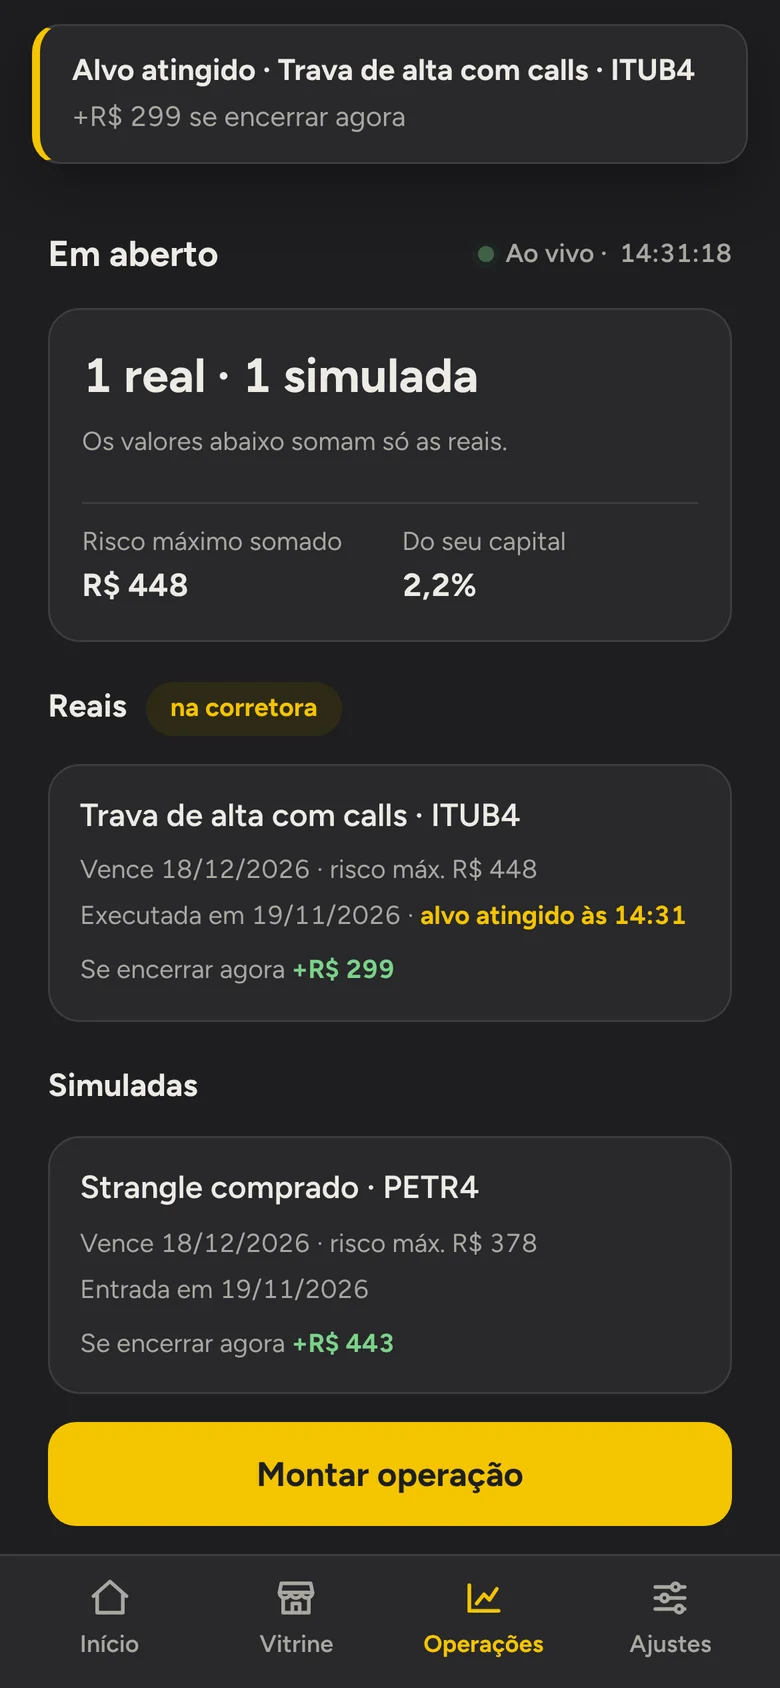
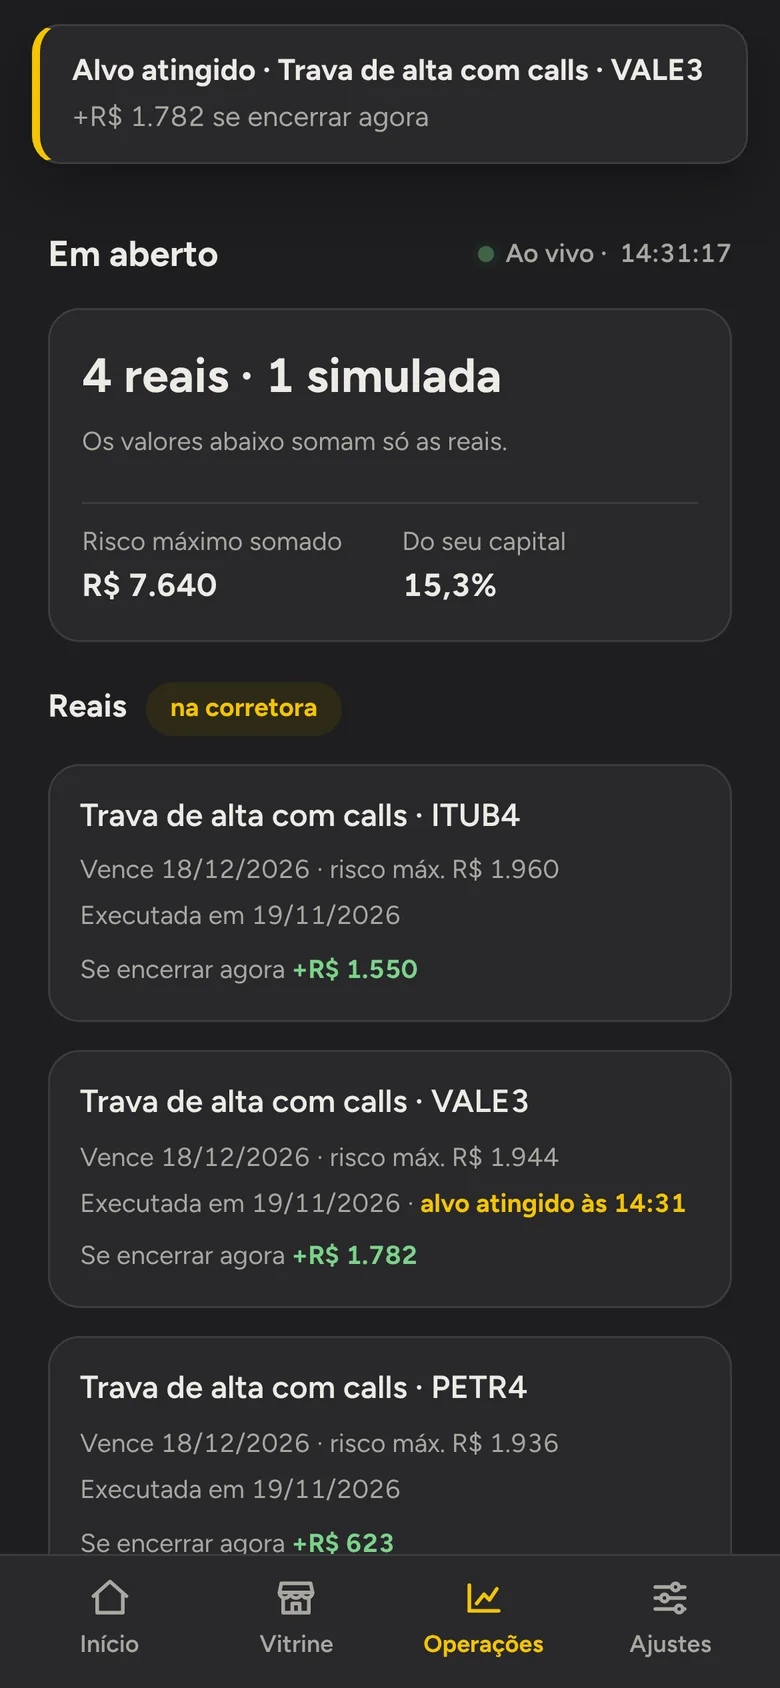
LPs (prévia): telas com ativos variados, várias operações no celular e botão "Baixar o app"
- Telas da plataforma refeitas fora de BOVA11: hero PETR4 (trava Lucro maior, a mesma do aviso), passo 1 VALE3, passo 2 ITUB4, passo 3 BBAS3.
- Celular: aba Operações ao vivo com 4 operações reais (ITUB4, VALE3, PETR4, BOVA11) e 1 simulada, risco somado e aviso de alvo.
- Acompanhe: "Acompanhe todas as suas operações ao mesmo tempo", com texto sobre várias operações numa tela só e o risco somado.
- Botão da seção do celular: "Baixar o app" (APK no Android; no iPhone e no computador, leva às instruções e ao QR).
- Sai a legenda "Exemplos ilustrativos, com cotações simuladas." do hero.

Claude-Session: https://claude.ai/code/session_01MpnSpo8GG6mFAeaVMeYZNc

diff --git a/lp/bolsa-brasileira/index.html b/lp/bolsa-brasileira/index.html
@@ -165,7 +165,6 @@ footer nav{display:flex;gap:18px;flex-wrap:wrap;margin-top:14px}
     <div class="notif"><span class="ic">V</span><div><b>Trava de alta montada · PETR4</b><span>Risco <span class="neg">R$&nbsp;1.936</span> · ganho máximo <span class="pos">R$&nbsp;3.014</span></span></div></div>
     <div class="notif"><span class="ic">↗</span><div><b>VALE3 sobe 3% · <span class="vivo"><i></i>ao vivo</span></b><span><span class="pos">+R$&nbsp;430</span> se encerrar agora</span></div><span class="pro">Pro</span></div>
     <div class="notif"><span class="ic ok">✓</span><div><b>Alvo atingido · ITUB4 +7%</b><span><span class="pos">+R$&nbsp;1.701</span> se encerrar agora · ordem de saída pronta</span></div><span class="pro">Pro</span></div>
-    <p class="legenda">Exemplos ilustrativos, com cotações simuladas.</p>
   </div>
   <div class="janela"><div class="barra"><i></i><i></i><i></i></div><img src="../img/pc-montada.webp" alt="Operação montada no Vaglio: valor pago, que é o risco máximo, ganho máximo, ponto de equilíbrio, chance implícita e gráfico do resultado no vencimento" width="1600" height="1000"></div>
 </div></div>
@@ -220,10 +219,10 @@ footer nav{display:flex;gap:18px;flex-wrap:wrap;margin-top:14px}
 </div></section>
 
 <section id="acompanhe"><div class="wrap duas">
-  <div class="cel"><img src="../img/cel-operacoes.webp" alt="O Vaglio no celular: a aba Operações ao vivo, com o aviso de alvo atingido e quanto receberia se encerrasse agora" loading="lazy" width="390" height="844"></div>
-  <div><h2>Acompanhe ao vivo, no celular ou no computador<span class="pro">Pro</span></h2>
-    <p class="sub">Registre o que executou na corretora e defina na entrada o alvo, o limite e o prazo de saída. Durante o pregão, veja quanto receberia se encerrasse agora e receba o aviso quando um deles for atingido, com a ordem de saída pronta.</p>
-    <div class="ctas"><a class="btn pri" data-cta href="#instalar">Acessar a plataforma</a></div>
+  <div class="cel"><img src="../img/cel-operacoes.webp" alt="O Vaglio no celular: a aba Operações ao vivo, com quatro operações reais em ativos diferentes, o risco somado e o aviso de alvo atingido" loading="lazy" width="390" height="844"></div>
+  <div><h2>Acompanhe todas as suas operações ao mesmo tempo<span class="pro">Pro</span></h2>
+    <p class="sub">Monte quantas operações quiser, em ativos diferentes, e acompanhe todas numa tela só, no celular ou no computador, com o risco somado. Defina na entrada o alvo, o limite e o prazo de saída de cada uma: durante o pregão, você vê quanto receberia se encerrasse agora e recebe o aviso quando um deles for atingido, com a ordem de saída pronta.</p>
+    <div class="ctas"><a class="btn pri" data-baixar href="#instalar">Baixar o app</a></div>
     <p class="legenda">Imagem ilustrativa, com cotações simuladas.</p></div>
 </div></section>
 
@@ -308,6 +307,10 @@ var APK = "https://github.com/Obasico-81/BR-Options/releases/download/android-te
   // botão secundário: no computador, o QR para instalar no celular; no celular, usar no navegador
   document.querySelectorAll("[data-sec]").forEach(function (a) {
     if (android || iphone) { a.href = APP; a.textContent = "Usar no navegador"; } else { a.href = "#instalar"; a.textContent = "Instalar no celular"; }
+  });
+  // botão da seção do celular: baixar o app (APK no Android; no iPhone e no computador, leva às instruções e ao QR)
+  document.querySelectorAll("[data-baixar]").forEach(function (a) {
+    if (android) a.href = APK; else if (iphone) { a.href = "#instalar"; a.textContent = "Instalar o app"; } else a.href = "#instalar";
   });
   // botões dos planos: o mesmo destino do botão principal, sem trocar o texto
   document.querySelectorAll("[data-ir]").forEach(function (a) { a.href = android ? APK : APP; });

diff --git a/lp/index.html b/lp/index.html
@@ -166,7 +166,6 @@ footer nav{display:flex;gap:18px;flex-wrap:wrap;margin-top:14px}
     <div class="notif"><span class="ic">V</span><div><b>Trava de alta montada · PETR4</b><span>Ganho máximo <span class="pos">R$&nbsp;3.014</span> · risco <span class="neg">R$&nbsp;1.936</span></span></div></div>
     <div class="notif"><span class="ic">↗</span><div><b>VALE3 sobe 3% · <span class="vivo"><i></i>ao vivo</span></b><span><span class="pos">+R$&nbsp;430</span> se encerrar agora</span></div><span class="pro">Pro</span></div>
     <div class="notif"><span class="ic ok">✓</span><div><b>Alvo atingido · ITUB4 +7%</b><span><span class="pos">+R$&nbsp;1.701</span> se encerrar agora · ordem de saída pronta</span></div><span class="pro">Pro</span></div>
-    <p class="legenda">Exemplos ilustrativos, com cotações simuladas.</p>
   </div>
   <div class="janela"><div class="barra"><i></i><i></i><i></i></div><img src="img/pc-montada.webp" alt="Operação montada no Vaglio: valor pago, que é o risco máximo, ganho máximo, ponto de equilíbrio, chance implícita e gráfico do resultado no vencimento" width="1600" height="1000"></div>
 </div></div>
@@ -191,10 +190,10 @@ footer nav{display:flex;gap:18px;flex-wrap:wrap;margin-top:14px}
 </div></section>
 
 <section id="acompanhe"><div class="wrap duas">
-  <div class="cel"><img src="img/cel-operacoes.webp" alt="O Vaglio no celular: a aba Operações ao vivo, com o aviso de alvo atingido e quanto receberia se encerrasse agora" loading="lazy" width="390" height="844"></div>
-  <div><h2>Acompanhe ao vivo, no celular ou no computador<span class="pro">Pro</span></h2>
-    <p class="sub">Registre o que executou na corretora. Durante o pregão, veja quanto receberia se encerrasse agora e receba o aviso de alvo, limite ou prazo de saída, com a ordem de saída pronta.</p>
-    <div class="ctas"><a class="btn pri" data-cta href="#instalar">Acessar a plataforma</a></div>
+  <div class="cel"><img src="img/cel-operacoes.webp" alt="O Vaglio no celular: a aba Operações ao vivo, com quatro operações reais em ativos diferentes, o risco somado e o aviso de alvo atingido" loading="lazy" width="390" height="844"></div>
+  <div><h2>Acompanhe todas as suas operações ao mesmo tempo<span class="pro">Pro</span></h2>
+    <p class="sub">Monte quantas operações quiser, em ativos diferentes, e acompanhe todas numa tela só, no celular ou no computador, com o risco somado. Durante o pregão, veja quanto receberia se encerrasse cada uma agora e receba o aviso de alvo, limite ou prazo de saída, com a ordem de saída pronta.</p>
+    <div class="ctas"><a class="btn pri" data-baixar href="#instalar">Baixar o app</a></div>
     <p class="legenda">Imagem ilustrativa, com cotações simuladas.</p></div>
 </div></section>
 
@@ -277,6 +276,10 @@ var APK = "https://github.com/Obasico-81/BR-Options/releases/download/android-te
   // botão secundário: no computador, o QR para instalar no celular; no celular, usar no navegador
   document.querySelectorAll("[data-sec]").forEach(function (a) {
     if (android || iphone) { a.href = APP; a.textContent = "Usar no navegador"; } else { a.href = "#instalar"; a.textContent = "Instalar no celular"; }
+  });
+  // botão da seção do celular: baixar o app (APK no Android; no iPhone e no computador, leva às instruções e ao QR)
+  document.querySelectorAll("[data-baixar]").forEach(function (a) {
+    if (android) a.href = APK; else if (iphone) { a.href = "#instalar"; a.textContent = "Instalar o app"; } else a.href = "#instalar";
   });
   // botões dos planos: o mesmo destino do botão principal, sem trocar o texto
   document.querySelectorAll("[data-ir]").forEach(function (a) { a.href = android ? APK : APP; });
